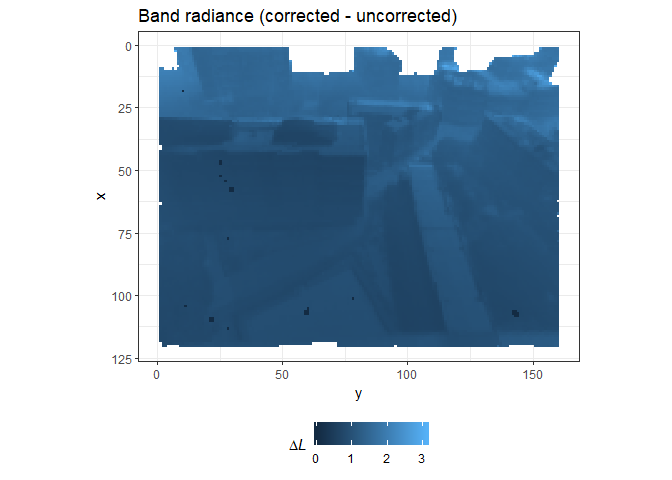
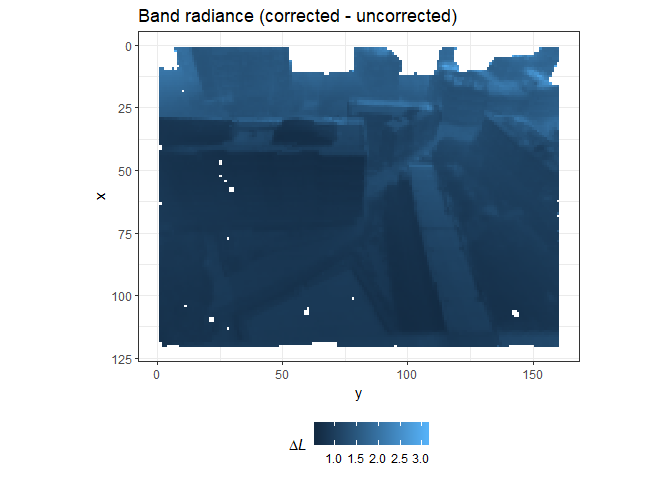
colour palette

Changed region(s): [[0.2188, 0.2188, 0.8438, 0.75], [0.4688, 0.9375, 0.6562, 0.9688]]

diff --git a/tutorials/Band-calculation/README.md b/tutorials/Band-calculation/README.md
@@ -129,7 +129,7 @@ diffDF <- bandRadDF %>%
 
 ```r
 ggplot(diffDF %>% 
-         filter(between(bandValueAtm - bandValue, 0, 3.5))) +
+         filter(between(bandValueAtm - bandValue, 0.25, 3.25))) +
   geom_raster(aes(x = x, y = y, fill = bandValueAtm - bandValue)) +
   theme_bw() +
   coord_flip() +
